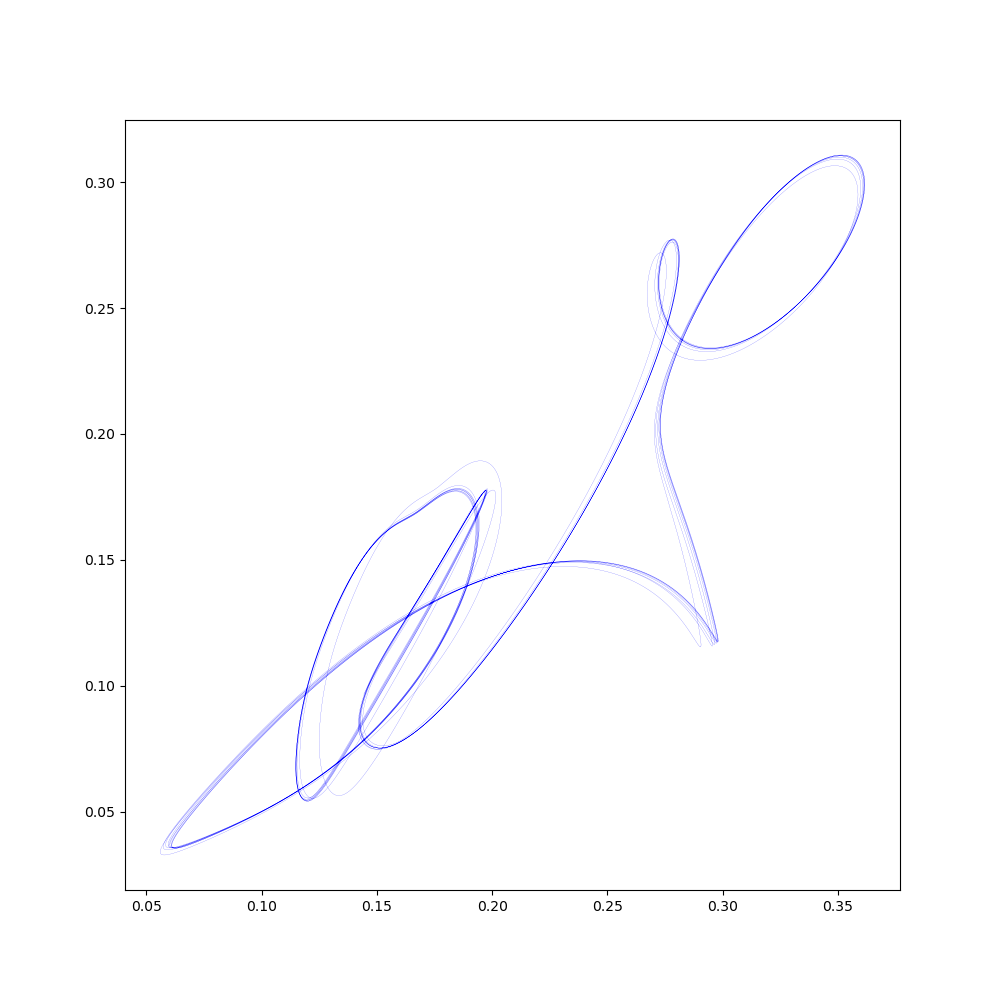
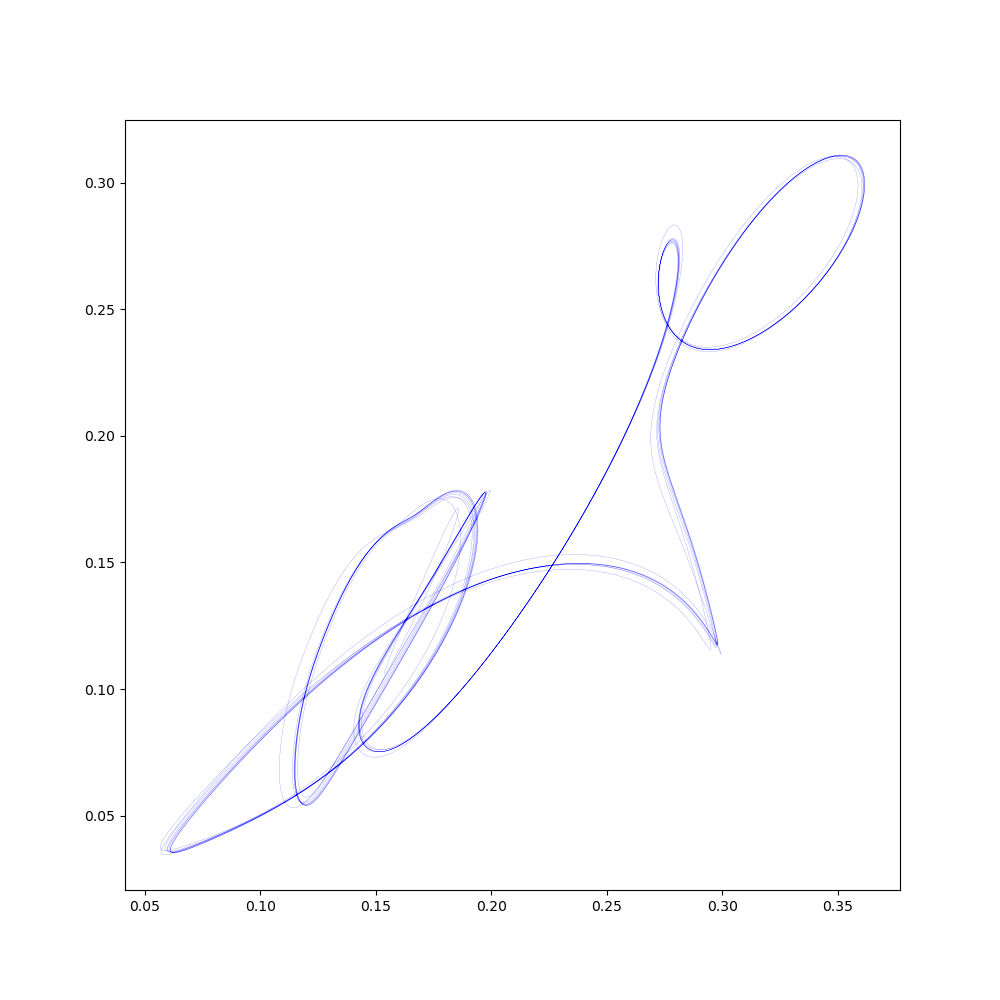
failed

diff --git a/code/stagger_and_step_sync.cpp b/code/stagger_and_step_sync.cpp
@@ -30,16 +30,16 @@ std::tuple<Eigen::VectorXd, Eigen::VectorXd, Eigen::VectorXcd> calc_next(ShellMo
 int main(){
     auto start = std::chrono::system_clock::now(); // 計測開始時間
     const double nu = 0.00018;
-    const double beta = 0.417;
+    const double beta = 0.43;
     const std::complex<double> f = std::complex<double>(1.0,1.0) * 5.0 * 0.001;
     const double dt = 0.01;
     const double t_0 = 0;
-    const double t = 4.5e+4;
+    const double t = 5e+4;
     const double latter = 1;
-    const double check = 1000;
-    const double progress = 200;
-    int limit = 1e+5; //limitation of trial of stagger and step
-    Eigen::VectorXcd x_0 = npy2EigenVec<std::complex<double>>("../../initials/beta0.417_nu0.00018_13348period_dt0.01eps0.005.npy");
+    const double check = 800;
+    const double progress = 100;
+    int limit = 2e+5; //limitation of trial of stagger and step
+    Eigen::VectorXcd x_0 = npy2EigenVec<std::complex<double>>("../../initials/beta0.43_nu0.00018_631period_dt0.01eps0.002.npy");
     ShellModel SM(nu, beta, f, dt, t_0, t, latter, x_0);
     Eigen::MatrixXcd Dummy_Laminar(x_0.rows()+1, 1); //dummy matrix to use LongLaminar Class
     LongLaminar LL(nu, beta, f, dt, t_0, t, latter, x_0, Dummy_Laminar, 0.01, 100, check, progress, 8);
@@ -47,23 +47,23 @@ int main(){
 
     //make pairs of shells to observe phase difference(num begins from 1)
     std::vector<std::tuple<int, int, double>> sync_pairs;
-    sync_pairs.push_back(std::make_tuple(4, 7, 1.9));
-    sync_pairs.push_back(std::make_tuple(4, 10, 1.9));
-    sync_pairs.push_back(std::make_tuple(4, 13, 1.9));
-    sync_pairs.push_back(std::make_tuple(7, 10, 1.1));
-    sync_pairs.push_back(std::make_tuple(7, 13, 1.1));
-    sync_pairs.push_back(std::make_tuple(10, 13, 3E-2));
+    sync_pairs.push_back(std::make_tuple(4, 7, 2.2));
+    sync_pairs.push_back(std::make_tuple(4, 10, 2.3));
+    sync_pairs.push_back(std::make_tuple(4, 13, 2.3));
+    sync_pairs.push_back(std::make_tuple(7, 10, 1.4));
+    sync_pairs.push_back(std::make_tuple(7, 13, 1.4));
+    sync_pairs.push_back(std::make_tuple(10, 13, 6E-2));
 
-    sync_pairs.push_back(std::make_tuple(5, 8, 1.9));
-    sync_pairs.push_back(std::make_tuple(5, 11, 1.9));
-    sync_pairs.push_back(std::make_tuple(5, 14, 1.9));
-    sync_pairs.push_back(std::make_tuple(8, 11, 0.43));
-    sync_pairs.push_back(std::make_tuple(8, 14, 0.43));
-    sync_pairs.push_back(std::make_tuple(11, 14, 6.1E-3));
+    // sync_pairs.push_back(std::make_tuple(5, 8, 8.1));
+    // sync_pairs.push_back(std::make_tuple(5, 11, 8.1));
+    // sync_pairs.push_back(std::make_tuple(5, 14, 8.1));
+    sync_pairs.push_back(std::make_tuple(8, 11, 0.45));
+    sync_pairs.push_back(std::make_tuple(8, 14, 0.45));
+    sync_pairs.push_back(std::make_tuple(11, 14, 1.3E-2));
 
-    sync_pairs.push_back(std::make_tuple(6, 9, 1.56));
-    sync_pairs.push_back(std::make_tuple(6, 12, 1.56));
-    sync_pairs.push_back(std::make_tuple(9, 12, 0.152));
+    sync_pairs.push_back(std::make_tuple(6, 9, 2));
+    sync_pairs.push_back(std::make_tuple(6, 12, 2));
+    sync_pairs.push_back(std::make_tuple(9, 12, 0.18));
 
     // sync_pairs.push_back(std::make_tuple(9, 12, 3.2)); // dummy to check all trajectory
 
@@ -167,7 +167,7 @@ int main(){
                 ShellModel Local_SM = SM; // copy of SM
                 std::vector<std::tuple<int, int, double>> Local_sync_pairs = sync_pairs; // copy of sync_pairs
                 double Local_now_time = Local_SM.get_t_0_();
-                Eigen::VectorXcd Local_x_0 = Local_LL.perturbation_(Local_SM.get_x_0_(), -7, -4);
+                Eigen::VectorXcd Local_x_0 = Local_LL.perturbation_(Local_SM.get_x_0_(), -8, -2);
                 Eigen::VectorXcd Local_now = Local_x_0; // perturbed initial state
                 Eigen::MatrixXcd Local_trajectory = Eigen::MatrixXcd::Zero(Local_now.rows()+1, progress_steps+1); //wide matrix for progress
                 Local_trajectory.topLeftCorner(Local_now.rows(), 1) = Local_now;

diff --git a/code/good_initialValue.cpp b/code/good_initialValue.cpp
@@ -26,7 +26,7 @@ int main(){
     double latter = 1;
     Eigen::VectorXcd x_0 = npy2EigenVec<std::complex<double>>("../../initials/beta0.43_nu0.00018_500period_dt0.01eps0.1.npy");
     ShellModel SM(nu, beta, f, ddt, t_0, t, latter, x_0);
-    Eigen::MatrixXcd laminar = npy2EigenMat<std::complex<double>>("../../generated_lam/sync_gen_laminar_beta_0.43nu_0.00018_dt0.01_400period1000check100progress10^-6-10^-5perturb_4-7_4-10_4-13_7-10_7-13_10-13_5-8_5-11_5-14_8-11_8-14_11-14_6-9_6-12_9-12.npy");
+    Eigen::MatrixXcd laminar = npy2EigenMat<std::complex<double>>("../../generated_lam/sync_gen_laminar_beta_0.43nu_0.00018_dt0.01_400period800check100progress10^-7-10^-5perturb_4-7_4-10_4-13_7-10_7-13_10-13_5-8_5-11_5-14_8-11_8-14_11-14_6-9_6-12_9-12.npy");
     int numRows = laminar.cols() / 2;
     Eigen::MatrixXcd laminar_sample(laminar.rows(), numRows);
     for (int i = 0; i < numRows; i++){
@@ -52,7 +52,7 @@ int main(){
     x_0 = npy2EigenVec<std::complex<double>>("../../initials/beta0.43_nu0.00018_631period_dt0.01eps0.002.npy");
     int num_of_candidates = omp_get_max_threads();
     int skip = 100;
-    double epsilon = 2E-3;
+    double epsilon = 3E-2;
     int threads = omp_get_max_threads();
     std::cout << threads << "threads" << std::endl;
 
@@ -60,12 +60,12 @@ int main(){
     Eigen::MatrixXcd initials(x_0.size(), num_of_candidates);
     double longest;
 
-    for(int i = 0; i < 000; i++){
+    for(int i = 0; i < 100; i++){
         // make matrix that each cols are candidates of initial value
         std::cout << "現在"  << i+1 << "回" <<std::endl;
         initials.col(0) = LL.get_x_0_();
         for(int j = 1; j < num_of_candidates - 1; j++){
-            initials.col(j) = LL.perturbation_(LL.get_x_0_(), -12, -3);
+            initials.col(j) = LL.perturbation_(LL.get_x_0_(), -8, -3);
         }
         Eigen::VectorXd durations(num_of_candidates);
         #pragma omp parallel for num_threads(threads)
